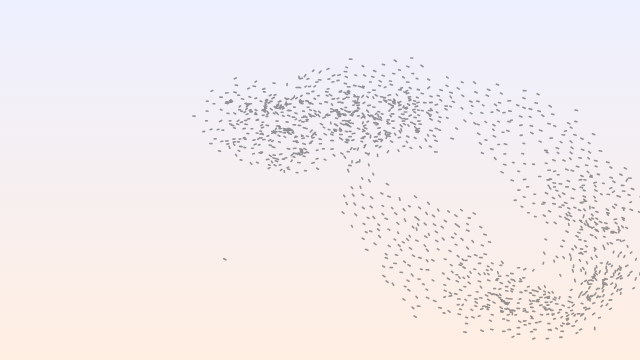
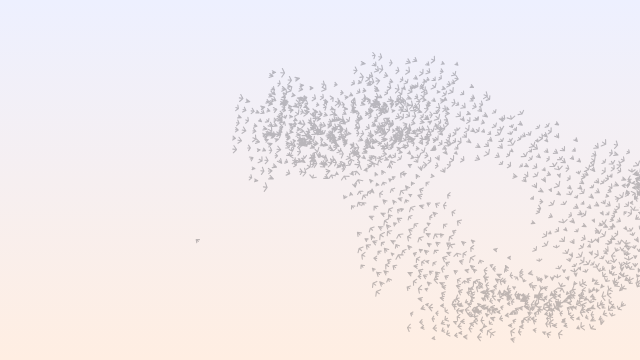
Murmuration birds with beating wings; Chladni sand in three shades with a palette setting; chemical waves on a neutral ground

Changed region(s): [[0.3125, 0.1528, 1.0, 0.9472], [0.4062, 0.1833, 0.4375, 0.2139]]

diff --git a/effects/chladni/index.js b/effects/chladni/index.js
@@ -49,11 +49,25 @@ function readTones(host, scheme) {
 // walk off to the lines that stay still, so the sand draws the plate's standing wave. Every few
 // seconds the note changes: the old figure breaks up into a shimmer and the grains run to the
 // new one. The grains may be sand or the marks of a text file: hashes, brackets, arrows.
+// Real sand is never one colour: every grain takes one of three shades, so the lines have grain.
+// The palettes follow how sand is shown for real: graphite is grey sand on a grey plate; brass a
+// bronze plate with brown sand; lightbox is sand animation, dark sand on a warm backlit glass;
+// ink takes the theme's primary colour.
 const SCENE = {
   home: 'light', seed: 43, fresh: true, reseed: ['density', 'grains'],
   tones: (read, scheme) => scheme === 'light'
-    ? {plate: read('--sf-neutral-98', '#faf9fe'), edge: read('--sf-neutral-95', '#f1f0f5'), grain: read('--sf-neutral-30', '#45464d'), mark: read('--sf-primary-40', '#005bbe')}
-    : {plate: read('--sf-neutral-6', '#16181d'), edge: read('--sf-neutral-4', '#0c0e13'), grain: read('--sf-neutral-80', '#c6c6cf'), mark: read('--sf-primary-80', '#adc6ff')},
+    ? {
+      graphite: {plate: read('--sf-neutral-98', '#faf9fe'), edge: read('--sf-neutral-95', '#f1f0f5'), grains: [read('--sf-neutral-20', '#2f3036'), read('--sf-neutral-40', '#5d5e66'), read('--sf-neutral-60', '#909099')]},
+      brass: {plate: read('--sf-warning-95', '#ffeee1'), edge: read('--sf-warning-90', '#ffdcc2'), grains: [read('--sf-warning-20', '#4f2500'), read('--sf-warning-40', '#8b5000'), read('--sf-neutral-40', '#5d5e66')]},
+      lightbox: {plate: read('--sf-warning-98', '#fff8f5'), edge: read('--sf-warning-90', '#ffdcc2'), grains: [read('--sf-neutral-10', '#1a1b21'), read('--sf-neutral-20', '#2f3036'), read('--sf-warning-20', '#4f2500')]},
+      ink: {plate: read('--sf-neutral-98', '#faf9fe'), edge: read('--sf-neutral-95', '#f1f0f5'), grains: [read('--sf-primary-40', '#005bbe'), read('--sf-primary-60', '#4d8eff'), read('--sf-neutral-50', '#76777f')]},
+    }
+    : {
+      graphite: {plate: read('--sf-neutral-10', '#1a1b21'), edge: read('--sf-neutral-4', '#0c0e13'), grains: [read('--sf-neutral-90', '#e2e2eb'), read('--sf-neutral-70', '#aaabb4'), read('--sf-neutral-50', '#76777f')]},
+      brass: {plate: read('--sf-warning-10', '#2f1500'), edge: read('--sf-neutral-4', '#0c0e13'), grains: [read('--sf-warning-80', '#ffb77a'), read('--sf-warning-60', '#d1872c'), read('--sf-neutral-70', '#aaabb4')]},
+      lightbox: {plate: read('--sf-warning-20', '#4f2500'), edge: read('--sf-neutral-4', '#0c0e13'), grains: [read('--sf-neutral-4', '#0c0e13'), read('--sf-neutral-6', '#16181d'), read('--sf-neutral-10', '#1a1b21')]},
+      ink: {plate: read('--sf-neutral-6', '#16181d'), edge: read('--sf-neutral-4', '#0c0e13'), grains: [read('--sf-primary-80', '#adc6ff'), read('--sf-primary-60', '#4d8eff'), read('--sf-neutral-60', '#909099')]},
+    },
   setup(env, random) {
     const {w, h, values} = env;
     const glyphs = values.grains === 'marks';
@@ -71,7 +85,8 @@ const SCENE = {
   },
   click(env) { const s = env.state; s.at = (s.at + 1) % s.modes.length; s.since = 0; s.shake = 0.5; },
   draw(env, t) {
-    const {ctx, w, h, tones, state, values, scheme} = env;
+    const {ctx, w, h, state, values, scheme} = env;
+    const tones = env.tones[values.palette] ?? env.tones.graphite;
     const k = values.intensity / 100;
     const dt = state.last === null ? 0 : Math.max(0, Math.min(0.05, t - state.last));
     state.last = t;
@@ -87,16 +102,22 @@ const SCENE = {
     ctx.fillRect(0, 0, w, h);
     const {n, grains} = state;
     if (state.glyphs) {
-      ctx.fillStyle = rgba(tones.mark, (scheme === 'light' ? 0.42 : 0.32) * (0.45 + k * 0.6));
       ctx.font = '600 9px ui-monospace, SFMono-Regular, Menlo, Consolas, monospace';
       ctx.textAlign = 'center';
       ctx.textBaseline = 'middle';
-      for (let i = 0; i < n; i += 1) ctx.fillText(MARKS[grains[i * 3 + 2]], grains[i * 3], grains[i * 3 + 1]);
+      for (let s = 0; s < 3; s += 1) {
+        ctx.fillStyle = rgba(tones.grains[s], (scheme === 'light' ? 0.42 : 0.32) * (0.45 + k * 0.6));
+        for (let i = s; i < n; i += 3) ctx.fillText(MARKS[grains[i * 3 + 2]], grains[i * 3], grains[i * 3 + 1]);
+      }
     } else {
-      ctx.fillStyle = rgba(tones.grain, (scheme === 'light' ? 0.55 : 0.6) * (0.45 + k * 0.6));
-      ctx.beginPath();
-      for (let i = 0; i < n; i += 1) ctx.rect(grains[i * 3], grains[i * 3 + 1], 1.4, 1.4);
-      ctx.fill();
+      // Three shades and three sizes of grain: every third grain is the same kind.
+      for (let s = 0; s < 3; s += 1) {
+        const size = 1.1 + s * 0.3;
+        ctx.fillStyle = rgba(tones.grains[s], (scheme === 'light' ? 0.6 : 0.65) * (0.45 + k * 0.6));
+        ctx.beginPath();
+        for (let i = s; i < n; i += 3) ctx.rect(grains[i * 3], grains[i * 3 + 1], size, size);
+        ctx.fill();
+      }
     }
   },
 };

diff --git a/effects/murmuration/index.js b/effects/murmuration/index.js
@@ -88,15 +88,26 @@ const SCENE = {
     g.addColorStop(1, rgba(tones.low));
     ctx.fillStyle = g;
     ctx.fillRect(0, 0, w, h);
-    // Each bird a short dark stroke along its heading: dense where the flock folds.
-    ctx.strokeStyle = rgba(tones.bird, (scheme === 'light' ? 0.5 : 0.45) * (0.5 + k * 0.7));
-    ctx.lineWidth = 1.6;
+    // Each bird a starling seen from below: swept-back wings that beat, a short body and tail.
+    // Birds nearer the eye are a little bigger; each beats its wings in its own rhythm.
+    ctx.strokeStyle = rgba(tones.bird, (scheme === 'light' ? 0.3 : 0.26) * (0.5 + k * 0.7));
+    ctx.lineWidth = 1.1;
     ctx.lineCap = 'round';
+    ctx.lineJoin = 'round';
     ctx.beginPath();
+    const span = 3.2 * (0.8 + flockSize(env) * 0.3), beat = state.time * 13;
     for (let i = 0; i < n; i += 1) {
       const o = i * 4, x = birds[o], y = birds[o + 1];
-      ctx.moveTo(x, y);
-      ctx.lineTo(x - birds[o + 2] * 0.9, y - birds[o + 3] * 0.9);
+      const v = Math.hypot(birds[o + 2], birds[o + 3]) || 1, ux = birds[o + 2] / v, uy = birds[o + 3] / v;
+      const s = span * (0.75 + ((i * 7919) % 100) / 200), flap = Math.sin(beat * (0.85 + (i % 7) * 0.05) + i);
+      // A downstroke spreads the wings wide; an upstroke folds them back and in.
+      const out = s * (0.75 + flap * 0.3), back = s * (0.45 - flap * 0.25);
+      const hx = x + ux * s * 0.35, hy = y + uy * s * 0.35;
+      ctx.moveTo(x - ux * back - uy * out, y - uy * back + ux * out);
+      ctx.lineTo(hx, hy);
+      ctx.lineTo(x - ux * back + uy * out, y - uy * back - ux * out);
+      ctx.moveTo(hx, hy);
+      ctx.lineTo(x - ux * s * 0.55, y - uy * s * 0.55);
     }
     ctx.stroke();
   },

diff --git a/effects/bz-waves/index.js b/effects/bz-waves/index.js
@@ -53,7 +53,7 @@ function readTones(host, scheme) {
 const SCENE = {
   home: 'light', seed: 57, fresh: true, reseed: ['density'],
   tones: (read, scheme) => scheme === 'light'
-    ? {ground: read('--sf-warning-95', '#ffeee1'), front: read('--sf-primary-50', '#0074ec'), tail: read('--sf-tertiary-80', '#e7b6ea')}
+    ? {ground: read('--sf-neutral-98', '#faf9fe'), front: read('--sf-primary-50', '#0074ec'), tail: read('--sf-tertiary-80', '#e7b6ea')}
     : {ground: read('--sf-neutral-5', '#111318'), front: read('--sf-primary-70', '#7aabff'), tail: read('--sf-tertiary-30', '#563e5a')},
   setup(env, random) {
     const {w, h, values} = env;

diff --git a/effects/chladni/README.md b/effects/chladni/README.md
@@ -16,6 +16,7 @@ Sand on a singing plate gathers on the lines that stay still; the note changes, 
 | `intensity` | integer | 10–100 % | `70` | Intensity |
 | `density` | integer | 10–100 % | `50` | Density |
 | `grains` | choice | `sand`, `marks` | `"sand"` | Grains |
+| `palette` | choice | `graphite`, `brass`, `lightbox`, `ink` | `"graphite"` | Palette |
 | `interactive` | boolean | — | `true` | React to the pointer. The pointer stirs the sand, a click changes the note |
 
 ## Schemes
